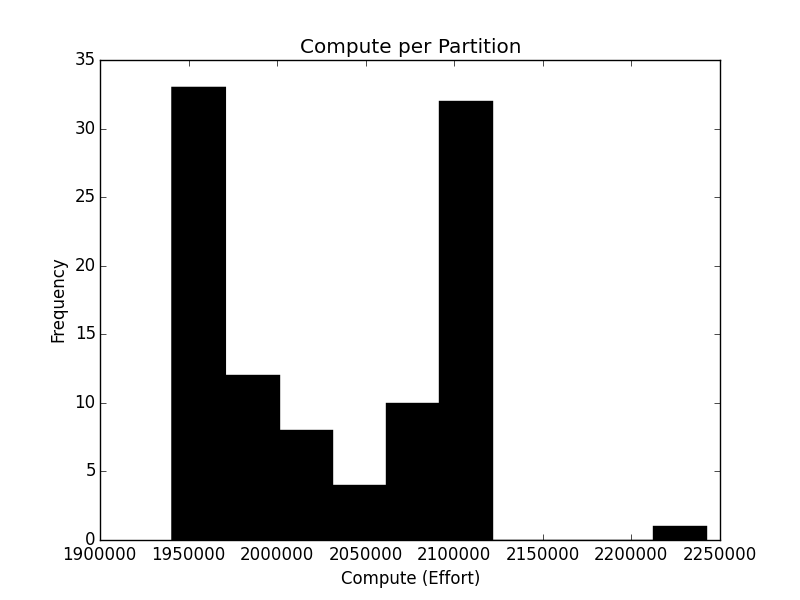
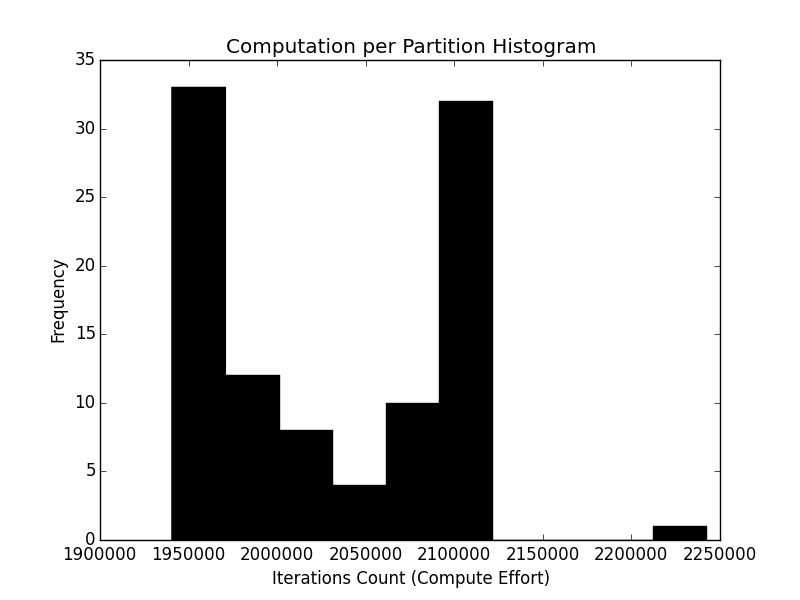
Updated Units on P2 histograms

Changed region(s): [[0.3438, 0.93, 0.6875, 0.99], [0.2812, 0.06, 0.75, 0.09]]

diff --git a/HW1/P2/P2a.py b/HW1/P2/P2a.py
@@ -15,24 +15,26 @@ import matplotlib.pyplot as plt
 import matplotlib.cm as cm
 
 from P2 import mandelbrot, sum_values_for_partitions, draw_image
+
+
+# In[2]:
+
 #Clean Version
 arr = xrange(2000)
 rdd_single = sc.parallelize(arr,10)
 rdd = rdd_single.cartesian(rdd_single)
-
 iters = rdd.map(lambda (i,j): ((i,j), mandelbrot(j / 500.0 - 2, i / 500.0 - 2)))
 num_per_part = sum_values_for_partitions(iters)
 draw_image(iters)
 num_per_part_list = num_per_part.collect()
 
 
-
-# In[9]:
+# In[4]:
 
 #plot histogram
 plt.hist(num_per_part_list, color="black")
-plt.title("Compute per Partition")
-plt.xlabel("Compute (Effort)")
+plt.title("Computation per Partition Histogram")
+plt.xlabel("Iterations Count (Compute Effort)")
 plt.ylabel("Frequency")
 plt.savefig("P2a_hist.png")
 

diff --git a/HW1/P2/P2b.py b/HW1/P2/P2b.py
@@ -30,8 +30,8 @@ num_per_part_list = num_per_part.collect()
 
 #plot histogram
 plt.hist(num_per_part_list, color="black")
-plt.title("Compute per Partition")
-plt.xlabel("Compute (Effort)")
+plt.title("Computation per Partition Histogram")
+plt.xlabel("Iterations Count (Compute Effort)")
 plt.ylabel("Frequency")
 plt.savefig("P2b_hist.png")
 
